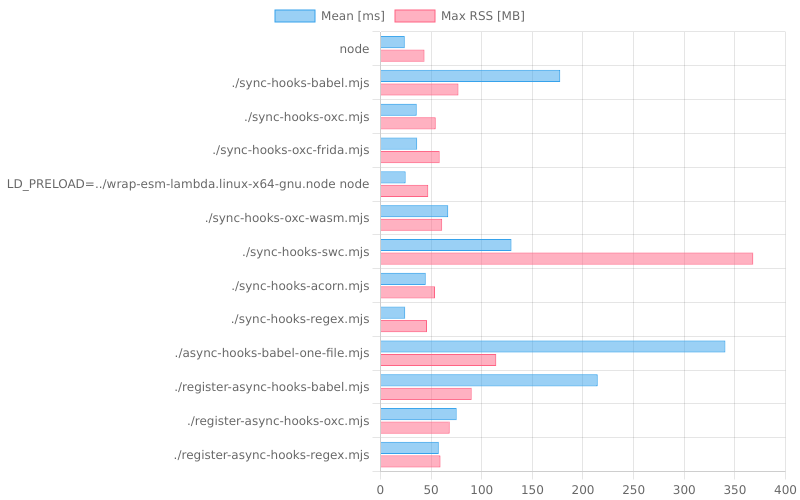
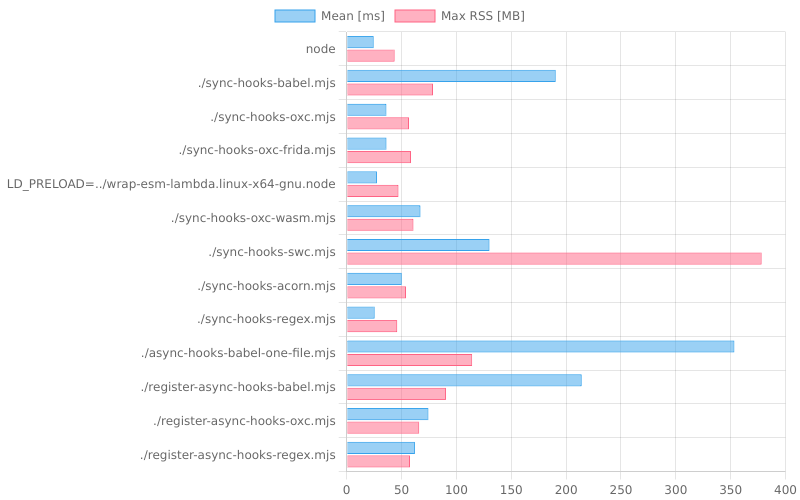
Fix arm build

diff --git a/src/lib.rs b/src/lib.rs
@@ -1,7 +1,7 @@
 #![deny(clippy::all)]
 
-#[cfg_attr(target_family = "unix", path = "detours.rs")]
-#[cfg_attr(target_family = "wasm", path = "no-detours.rs")]
+#[cfg_attr(target_arch = "x86_64", path = "detours.rs")]
+#[cfg_attr(not(target_arch = "x86_64"), path = "no-detours.rs")]
 mod detours;
 
 use detours::transform;

diff --git a/hooks/benchTable.md b/hooks/benchTable.md
@@ -1,15 +1,15 @@
 | Command | Mean [ms] | Min [ms] | Max [ms] | Relative | Max RSS [MB] |
 |:---|---:|---:|---:|---:|---:|
-| `node runtime.mjs` | 24.1 ± 0.8 | 21.8 | 27.5 | 1.00 | 43.61 |
-| `node --import ./sync-hooks-babel.mjs runtime.mjs` | 177.6 ± 2.7 | 174.5 | 184.3 | 7.37 ± 0.28 | 77.11 |
-| `node --import ./sync-hooks-oxc.mjs runtime.mjs` | 35.9 ± 0.8 | 34.4 | 37.3 | 1.49 ± 0.06 | 54.68 |
-| `node --import ./sync-hooks-oxc-frida.mjs runtime.mjs` | 36.3 ± 1.0 | 33.7 | 38.7 | 1.50 ± 0.07 | 58.49 |
-| `LD_PRELOAD=../wrap-esm-lambda.linux-x64-gnu.node node runtime.mjs` | 24.9 ± 0.7 | 23.7 | 26.6 | 1.04 ± 0.05 | 47.29 |
-| `node --import ./sync-hooks-oxc-wasm.mjs runtime.mjs` | 67.0 ± 2.4 | 63.8 | 77.1 | 2.78 ± 0.14 | 60.94 |
-| `node --import ./sync-hooks-swc.mjs runtime.mjs` | 129.5 ± 5.1 | 119.5 | 140.8 | 5.37 ± 0.28 | 368.23 |
-| `node --import ./sync-hooks-acorn.mjs runtime.mjs` | 44.8 ± 0.8 | 43.3 | 47.0 | 1.86 ± 0.07 | 53.93 |
-| `node --import ./sync-hooks-regex.mjs runtime.mjs` | 24.5 ± 0.9 | 22.8 | 30.8 | 1.02 ± 0.05 | 46.00 |
-| `node --import ./async-hooks-babel-one-file.mjs runtime.mjs` | 340.6 ± 11.7 | 328.3 | 360.2 | 14.13 ± 0.70 | 114.49 |
-| `node --import ./register-async-hooks-babel.mjs runtime.mjs` | 214.6 ± 6.2 | 206.6 | 225.3 | 8.91 ± 0.41 | 90.12 |
-| `node --import ./register-async-hooks-oxc.mjs runtime.mjs` | 75.3 ± 1.3 | 72.8 | 79.2 | 3.13 ± 0.12 | 68.45 |
-| `node --import ./register-async-hooks-regex.mjs runtime.mjs` | 57.7 ± 1.2 | 56.1 | 61.5 | 2.40 ± 0.10 | 59.43 |
+| `node runtime.mjs` | 24.7 ± 1.2 | 22.3 | 33.6 | 1.00 | 43.77 |
+| `node --import ./sync-hooks-babel.mjs runtime.mjs` | 190.6 ± 3.1 | 185.6 | 195.7 | 7.73 ± 0.40 | 78.73 |
+| `node --import ./sync-hooks-oxc.mjs runtime.mjs` | 36.3 ± 0.9 | 34.9 | 40.9 | 1.47 ± 0.08 | 56.86 |
+| `node --import ./sync-hooks-oxc-frida.mjs runtime.mjs` | 36.4 ± 0.8 | 34.4 | 38.2 | 1.48 ± 0.08 | 58.66 |
+| `LD_PRELOAD=../wrap-esm-lambda.linux-x64-gnu.node node runtime.mjs` | 27.6 ± 1.2 | 25.8 | 32.7 | 1.12 ± 0.07 | 47.32 |
+| `node --import ./sync-hooks-oxc-wasm.mjs runtime.mjs` | 67.4 ± 1.6 | 65.0 | 73.2 | 2.73 ± 0.15 | 60.95 |
+| `node --import ./sync-hooks-swc.mjs runtime.mjs` | 130.3 ± 10.2 | 121.7 | 171.3 | 5.28 ± 0.49 | 378.23 |
+| `node --import ./sync-hooks-acorn.mjs runtime.mjs` | 50.3 ± 1.4 | 48.0 | 55.3 | 2.04 ± 0.11 | 54.13 |
+| `node --import ./sync-hooks-regex.mjs runtime.mjs` | 25.6 ± 0.7 | 24.3 | 28.0 | 1.04 ± 0.06 | 46.18 |
+| `node --import ./async-hooks-babel-one-file.mjs runtime.mjs` | 353.4 ± 9.5 | 334.6 | 366.4 | 14.33 ± 0.80 | 114.36 |
+| `node --import ./register-async-hooks-babel.mjs runtime.mjs` | 214.3 ± 5.0 | 207.6 | 224.7 | 8.69 ± 0.47 | 90.50 |
+| `node --import ./register-async-hooks-oxc.mjs runtime.mjs` | 74.6 ± 3.0 | 72.1 | 85.2 | 3.03 ± 0.19 | 66.13 |
+| `node --import ./register-async-hooks-regex.mjs runtime.mjs` | 62.2 ± 1.7 | 58.3 | 67.0 | 2.52 ± 0.14 | 57.80 |